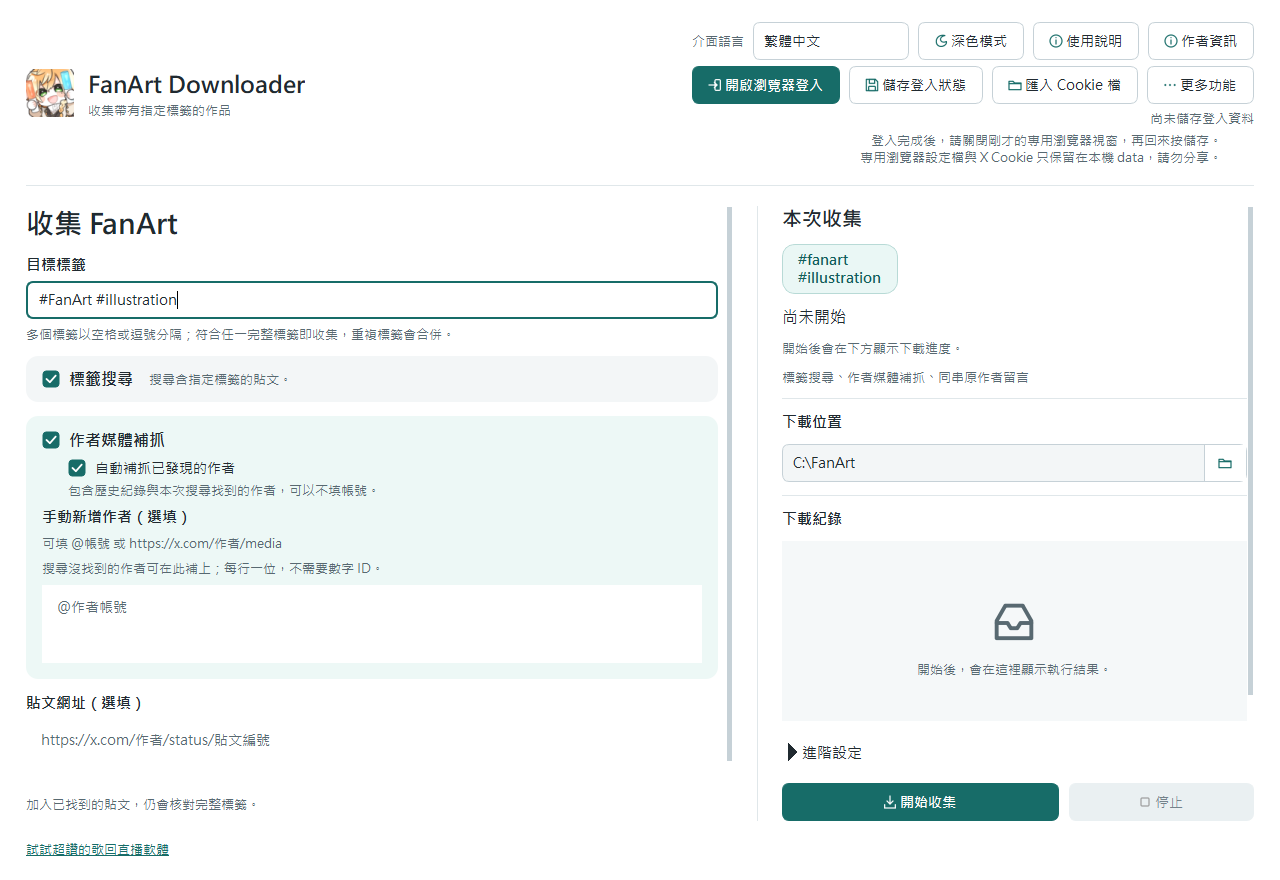
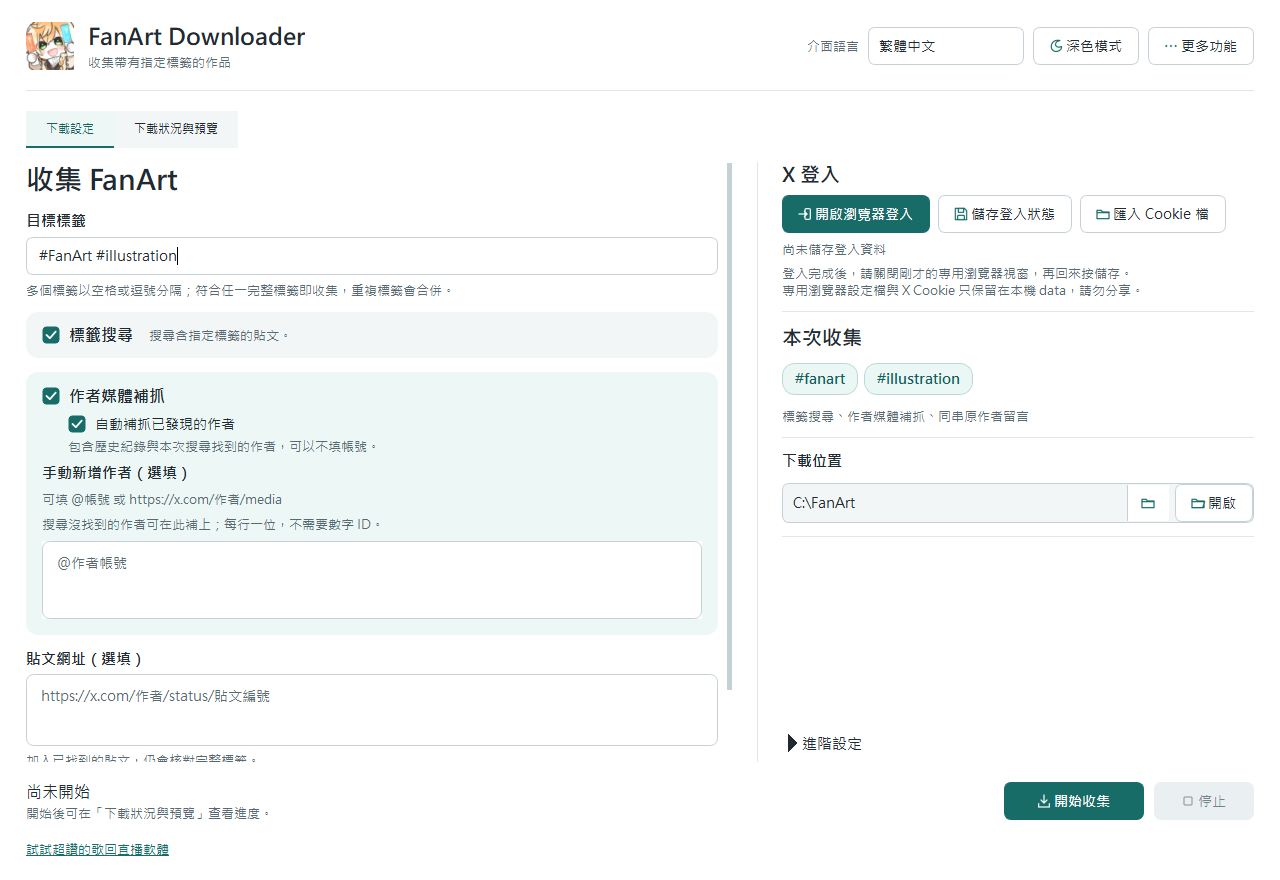
Use R2 as the primary FanArt download with GitHub backup

diff --git a/_includes/other-tools-page.html b/_includes/other-tools-page.html
@@ -9,7 +9,10 @@
 {% comment %}版本、檔案與連結由單一資料檔提供。 / Keep release metadata in one data file for all languages.{% endcomment %}
 {% for tool in tools_data.tools %}
   {% assign tool_text = tool.text[current_lang] | default: tool.text.en %}
-  {% capture tool_download %}{{ tool.repository }}/releases/download/v{{ tool.version }}/{{ tool.filename }}{% endcapture %}
+  {% capture tool_release_download %}{{ tool.repository }}/releases/download/v{{ tool.version }}/{{ tool.filename }}{% endcapture %}
+  {% assign tool_download = tool.download_url | default: tool_release_download %}
+  {% assign tool_download_source = tools_ui.github_download_source %}
+  {% if tool.download_url and tool.download_url != empty %}{% assign tool_download_source = tools_ui.download_source %}{% endif %}
   <section class="tool-entry" id="{{ tool.id | escape }}" aria-labelledby="{{ tool.id | escape }}-title">
     <div class="tool-intro">
       <div class="tool-title">
@@ -25,7 +28,7 @@
         <a class="tool-source" href="{{ tool.repository | escape }}" rel="noopener">{{ tools_ui.source | escape }}<svg viewBox="0 0 24 24" aria-hidden="true"><path d="M8 5H5v14h14v-3M13 5h6v6M19 5l-9 9"/></svg></a>
         {% if tool.mirror_url and tool.mirror_url != empty %}<a class="tool-source" href="{{ tool.mirror_url | escape }}" data-tool-download="{{ tool.id | escape }}" rel="noopener">{{ tools_ui.mirror | escape }}</a>{% endif %}
       </div>
-      <p class="tool-download-source">{{ tools_ui.download_source | escape }} · {{ tool.bytes | divided_by: 1048576.0 | round: 1 }} MiB</p>
+      <p class="tool-download-source">{{ tool_download_source | escape }} · {{ tool.bytes | divided_by: 1048576.0 | round: 1 }} MiB</p>
     </div>
 
     {% if tool.screenshot %}
